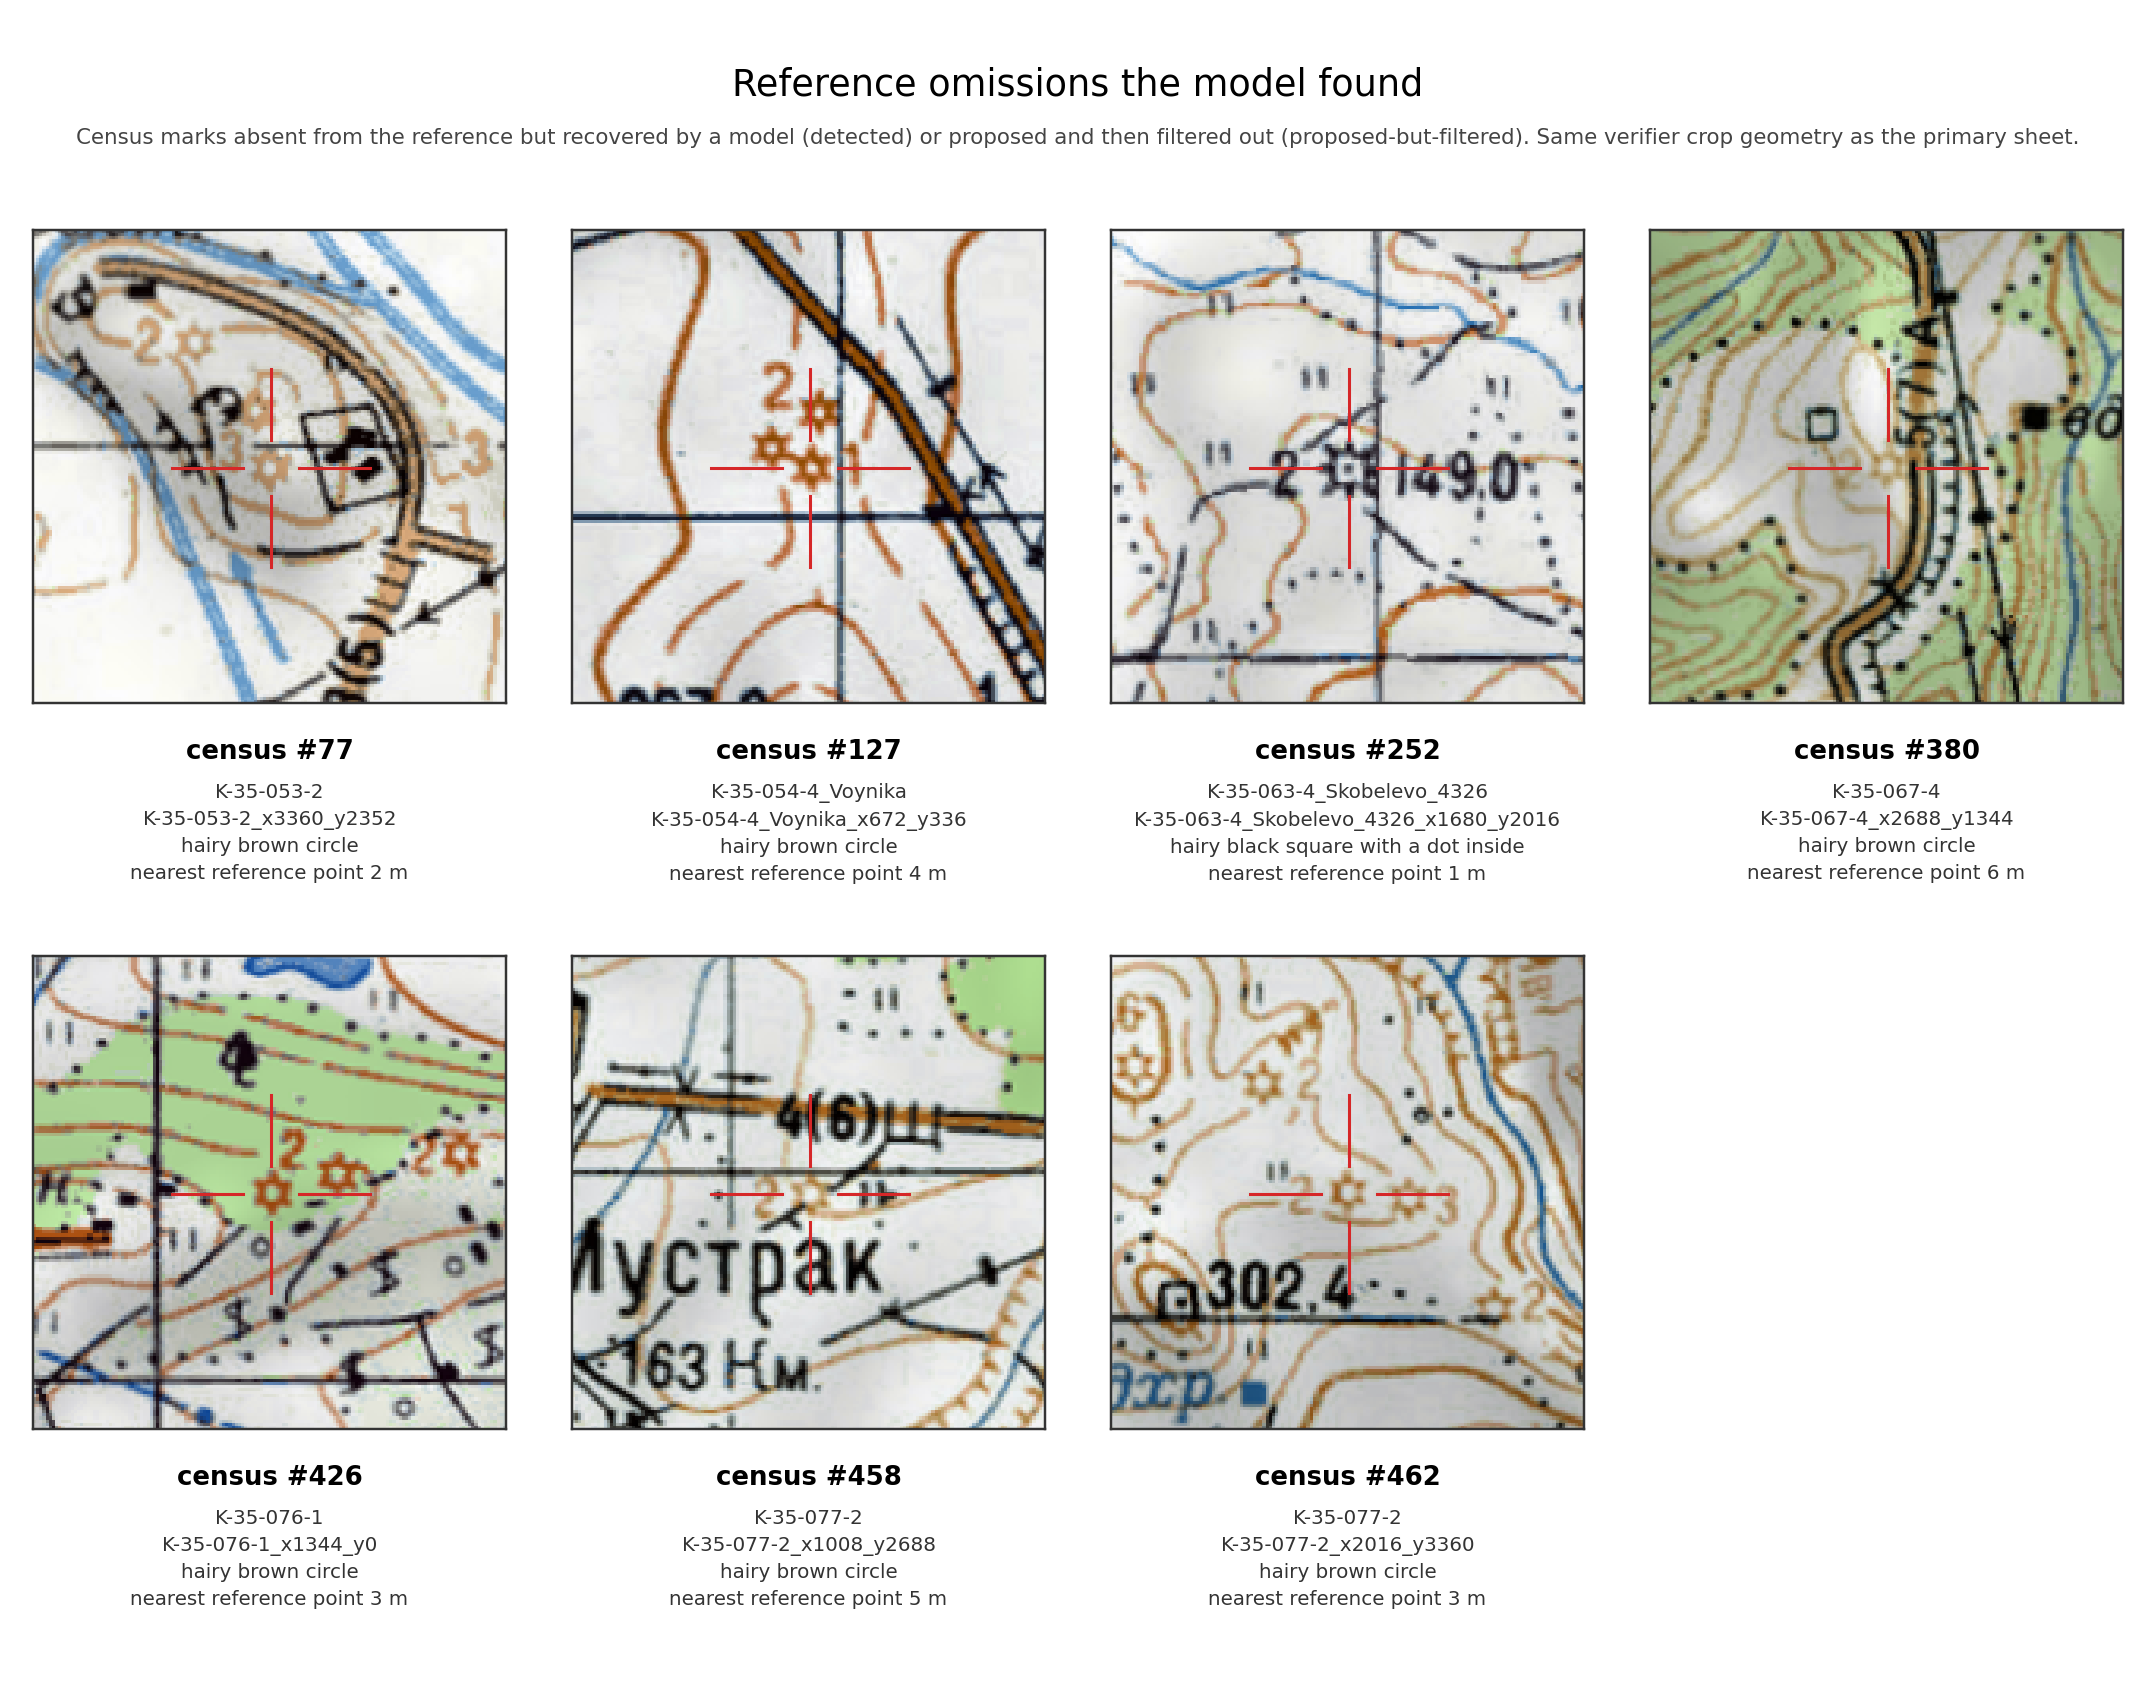
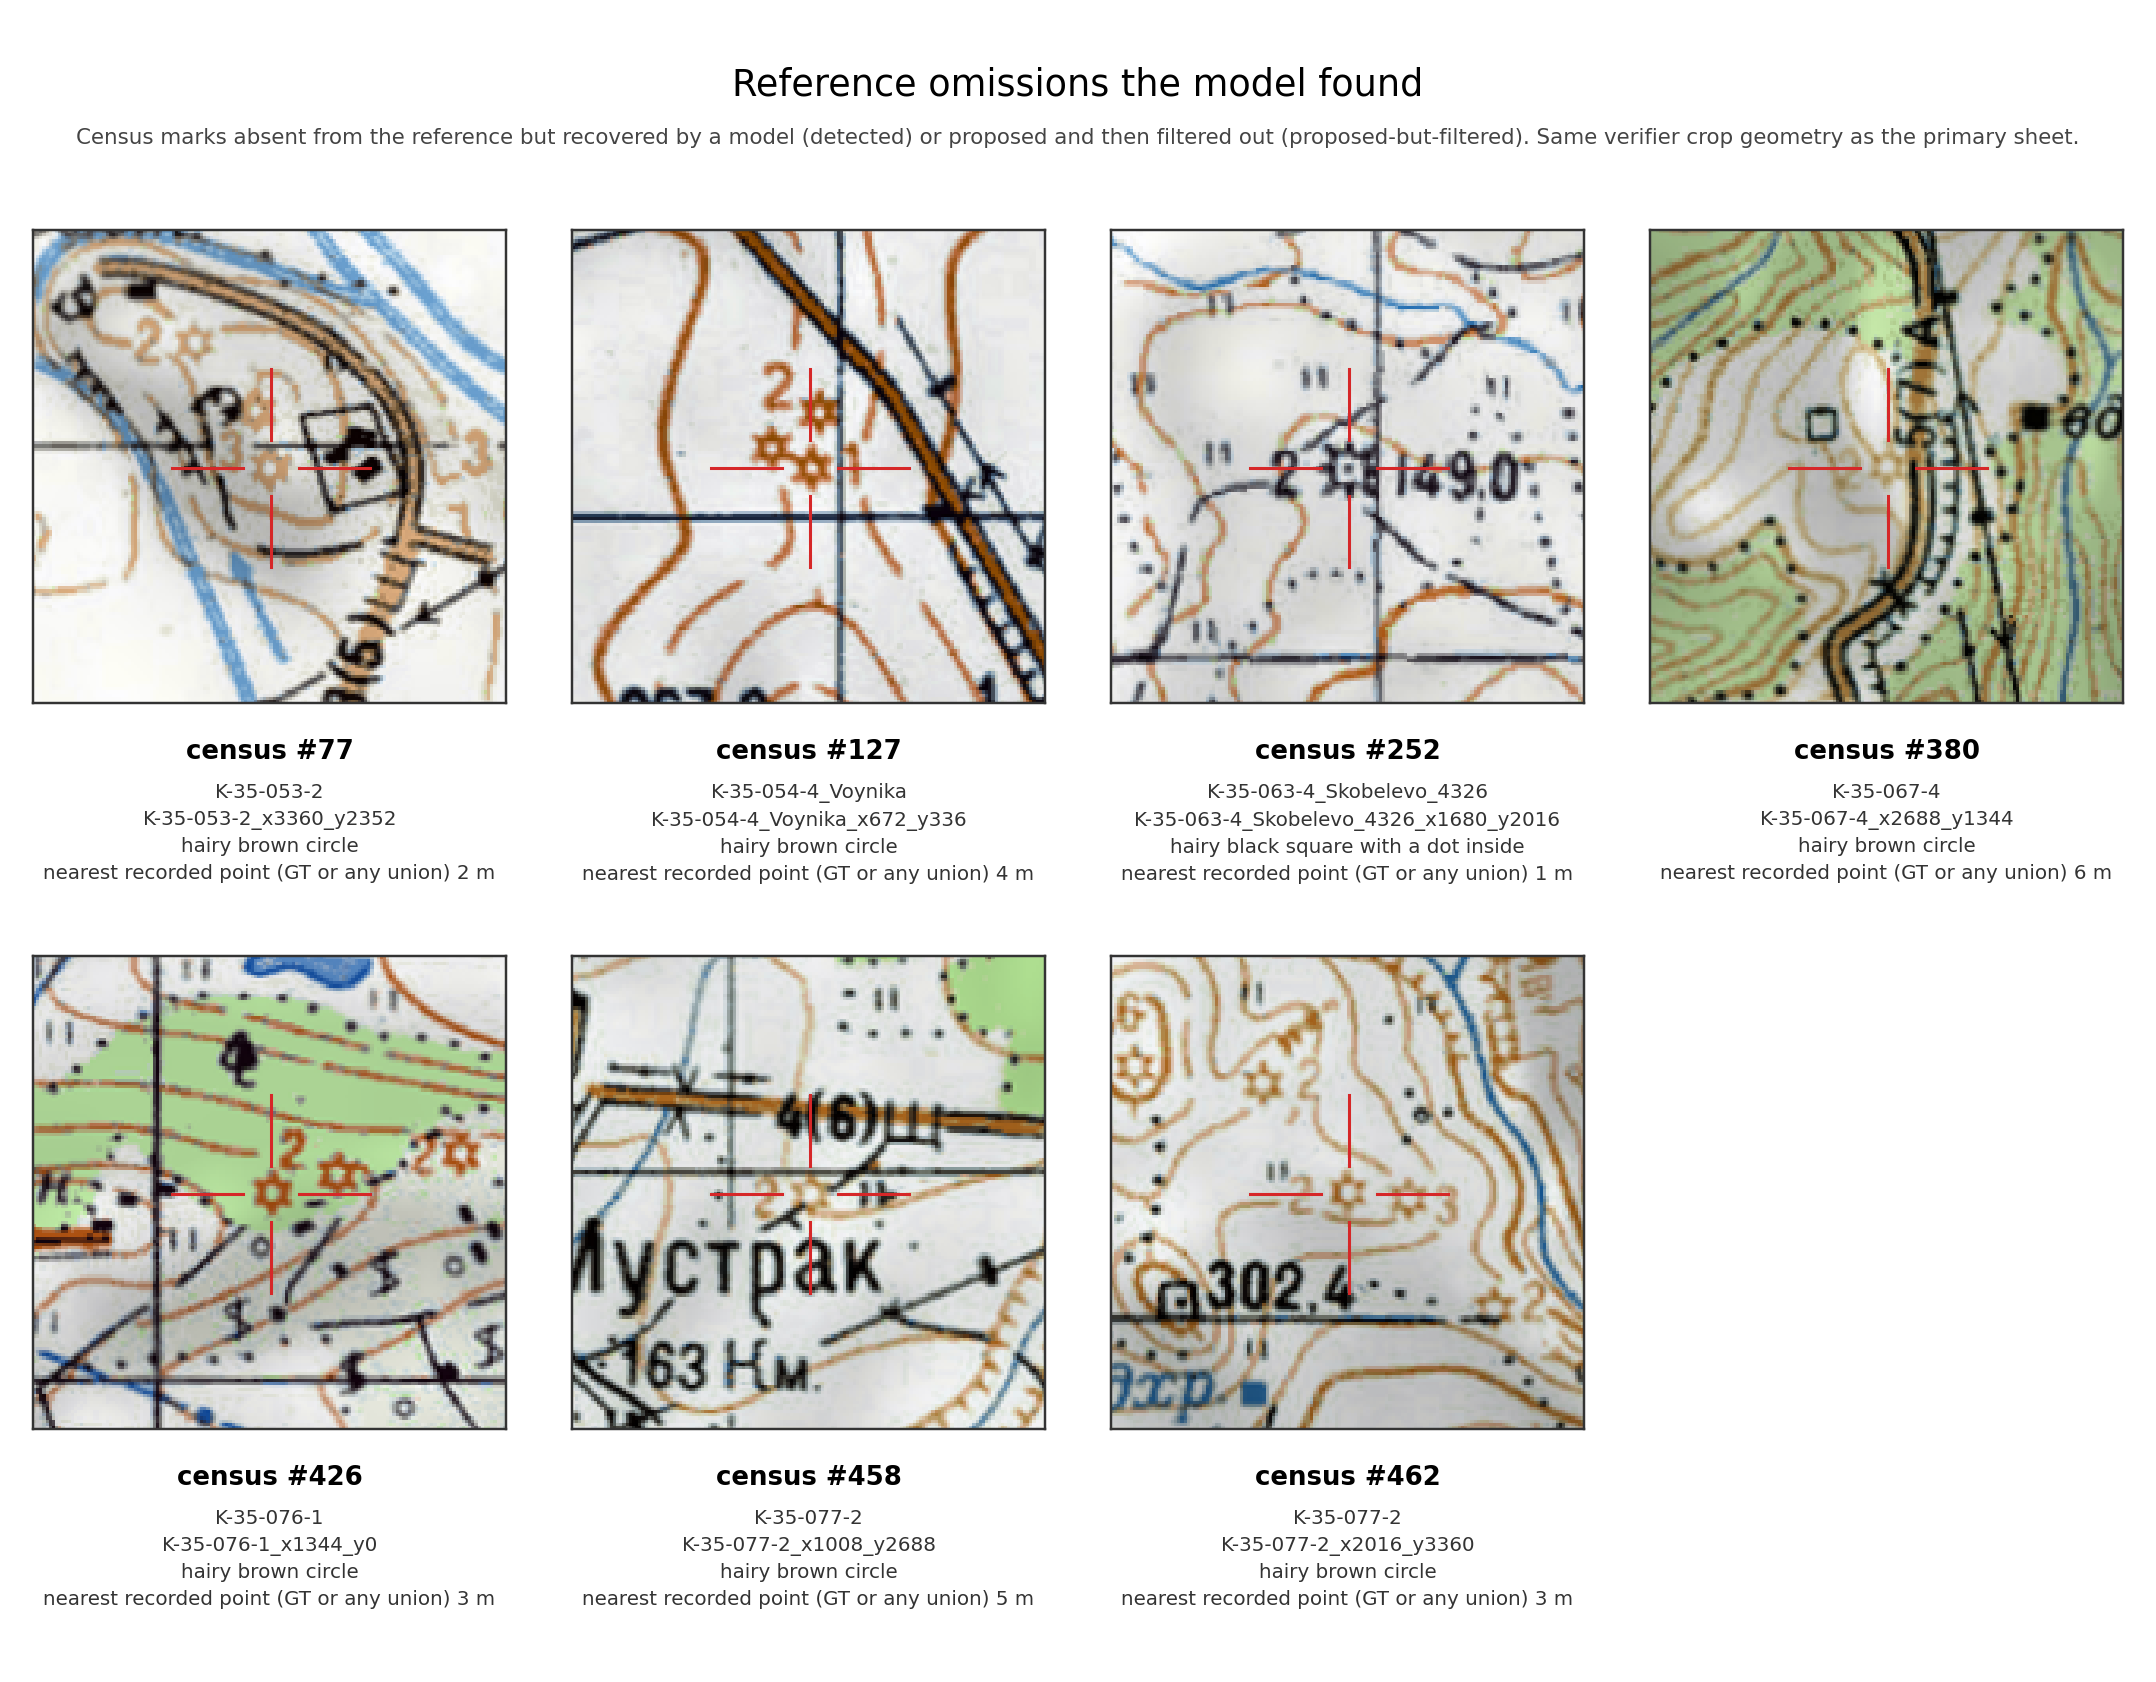
fix(figures): caption says 'nearest recorded point', not 'reference point'
The distance under each crop is nearest_anything_m — the nearest point
in ANY set, including the model unions — so on the omissions sheet it
read 1–6 m where the nearest reference point is 68–633 m. Relabelled on
both contact sheets and in the README; crops unchanged (deterministic
regeneration).

Claude-Session: https://claude.ai/code/session_01RmnrsCKzB9MwCaJkuqtv7h

diff --git a/scripts/cut_double_miss_crops.py b/scripts/cut_double_miss_crops.py
@@ -512,7 +512,7 @@ def build_contact_sheet(
             f"{rec.map_name}\n"
             f"{rec.tile_name.removesuffix('.png')}\n"
             f"{rec.symbol.lower()}\n"
-            f"nearest reference point {rec.nearest_anything_m:.0f} m",
+            f"nearest recorded point (GT or any union) {rec.nearest_anything_m:.0f} m",
             ha="center",
             va="top",
             fontsize=6.5,

diff --git a/results/double-miss-crops-2026-09-06/README.md b/results/double-miss-crops-2026-09-06/README.md
@@ -10,7 +10,7 @@ digitisers who built the reference nor by any model run in this study.
 There are seven — five from the sampled empty-tile stratum and two from the
 complete cluster census. All seven carry the classic kurgan symbol, a hairy
 brown circle, and all seven sit far from anything in the reference: the
-nearest reference point is 185–731 m away, so none is a near-miss
+nearest recorded point in any set (GT or union candidate) is 185–731 m away and the nearest GT point 571–1,518 m, so none is a near-miss
 mis-registration.
 
 ## Contents
@@ -61,7 +61,7 @@ the script aborts rather than transform implicitly.
 
 ## The seven
 
-| Crop | Sheet | Review tile | Symbol | Nearest reference point |
+| Crop | Sheet | Review tile | Symbol | Nearest recorded point (GT or any union) |
 |---|---|---|---|---|
 | `empty #145` | K-35-077-2 | `K-35-077-2_x1680_y1008` | hairy brown circle | 346 m |
 | `empty #147` | K-35-051-3 | `K-35-051-3_x1008_y1344` | hairy brown circle | 572 m |
@@ -93,12 +93,12 @@ All three gates passed on the run that produced these files.
 clearly separated question: the census marks that are missing from the
 reference but that a model **did** record — six adjudicated `detected` and one
 `proposed-but-filtered`. These are not double-misses; they are omissions in
-the human reference that the pipeline caught. Nearest reference point is 1–6 m
+the human reference that the pipeline caught. The nearest recorded point — a model detection — is 1–6 m, while the nearest reference point is 68–633 m
 for all seven, which is the signature of a mound the reference records
 slightly off rather than not at all in some cases; read the census
 adjudication for the per-mark reasoning.
 
-| Crop | Sheet | Review tile | Symbol | Nearest reference point |
+| Crop | Sheet | Review tile | Symbol | Nearest recorded point (GT or any union) |
 |---|---|---|---|---|
 | `census #77` | K-35-053-2 | `K-35-053-2_x3360_y2352` | hairy brown circle | 2 m |
 | `census #127` | K-35-054-4_Voynika | `K-35-054-4_Voynika_x672_y336` | hairy brown circle | 4 m |
